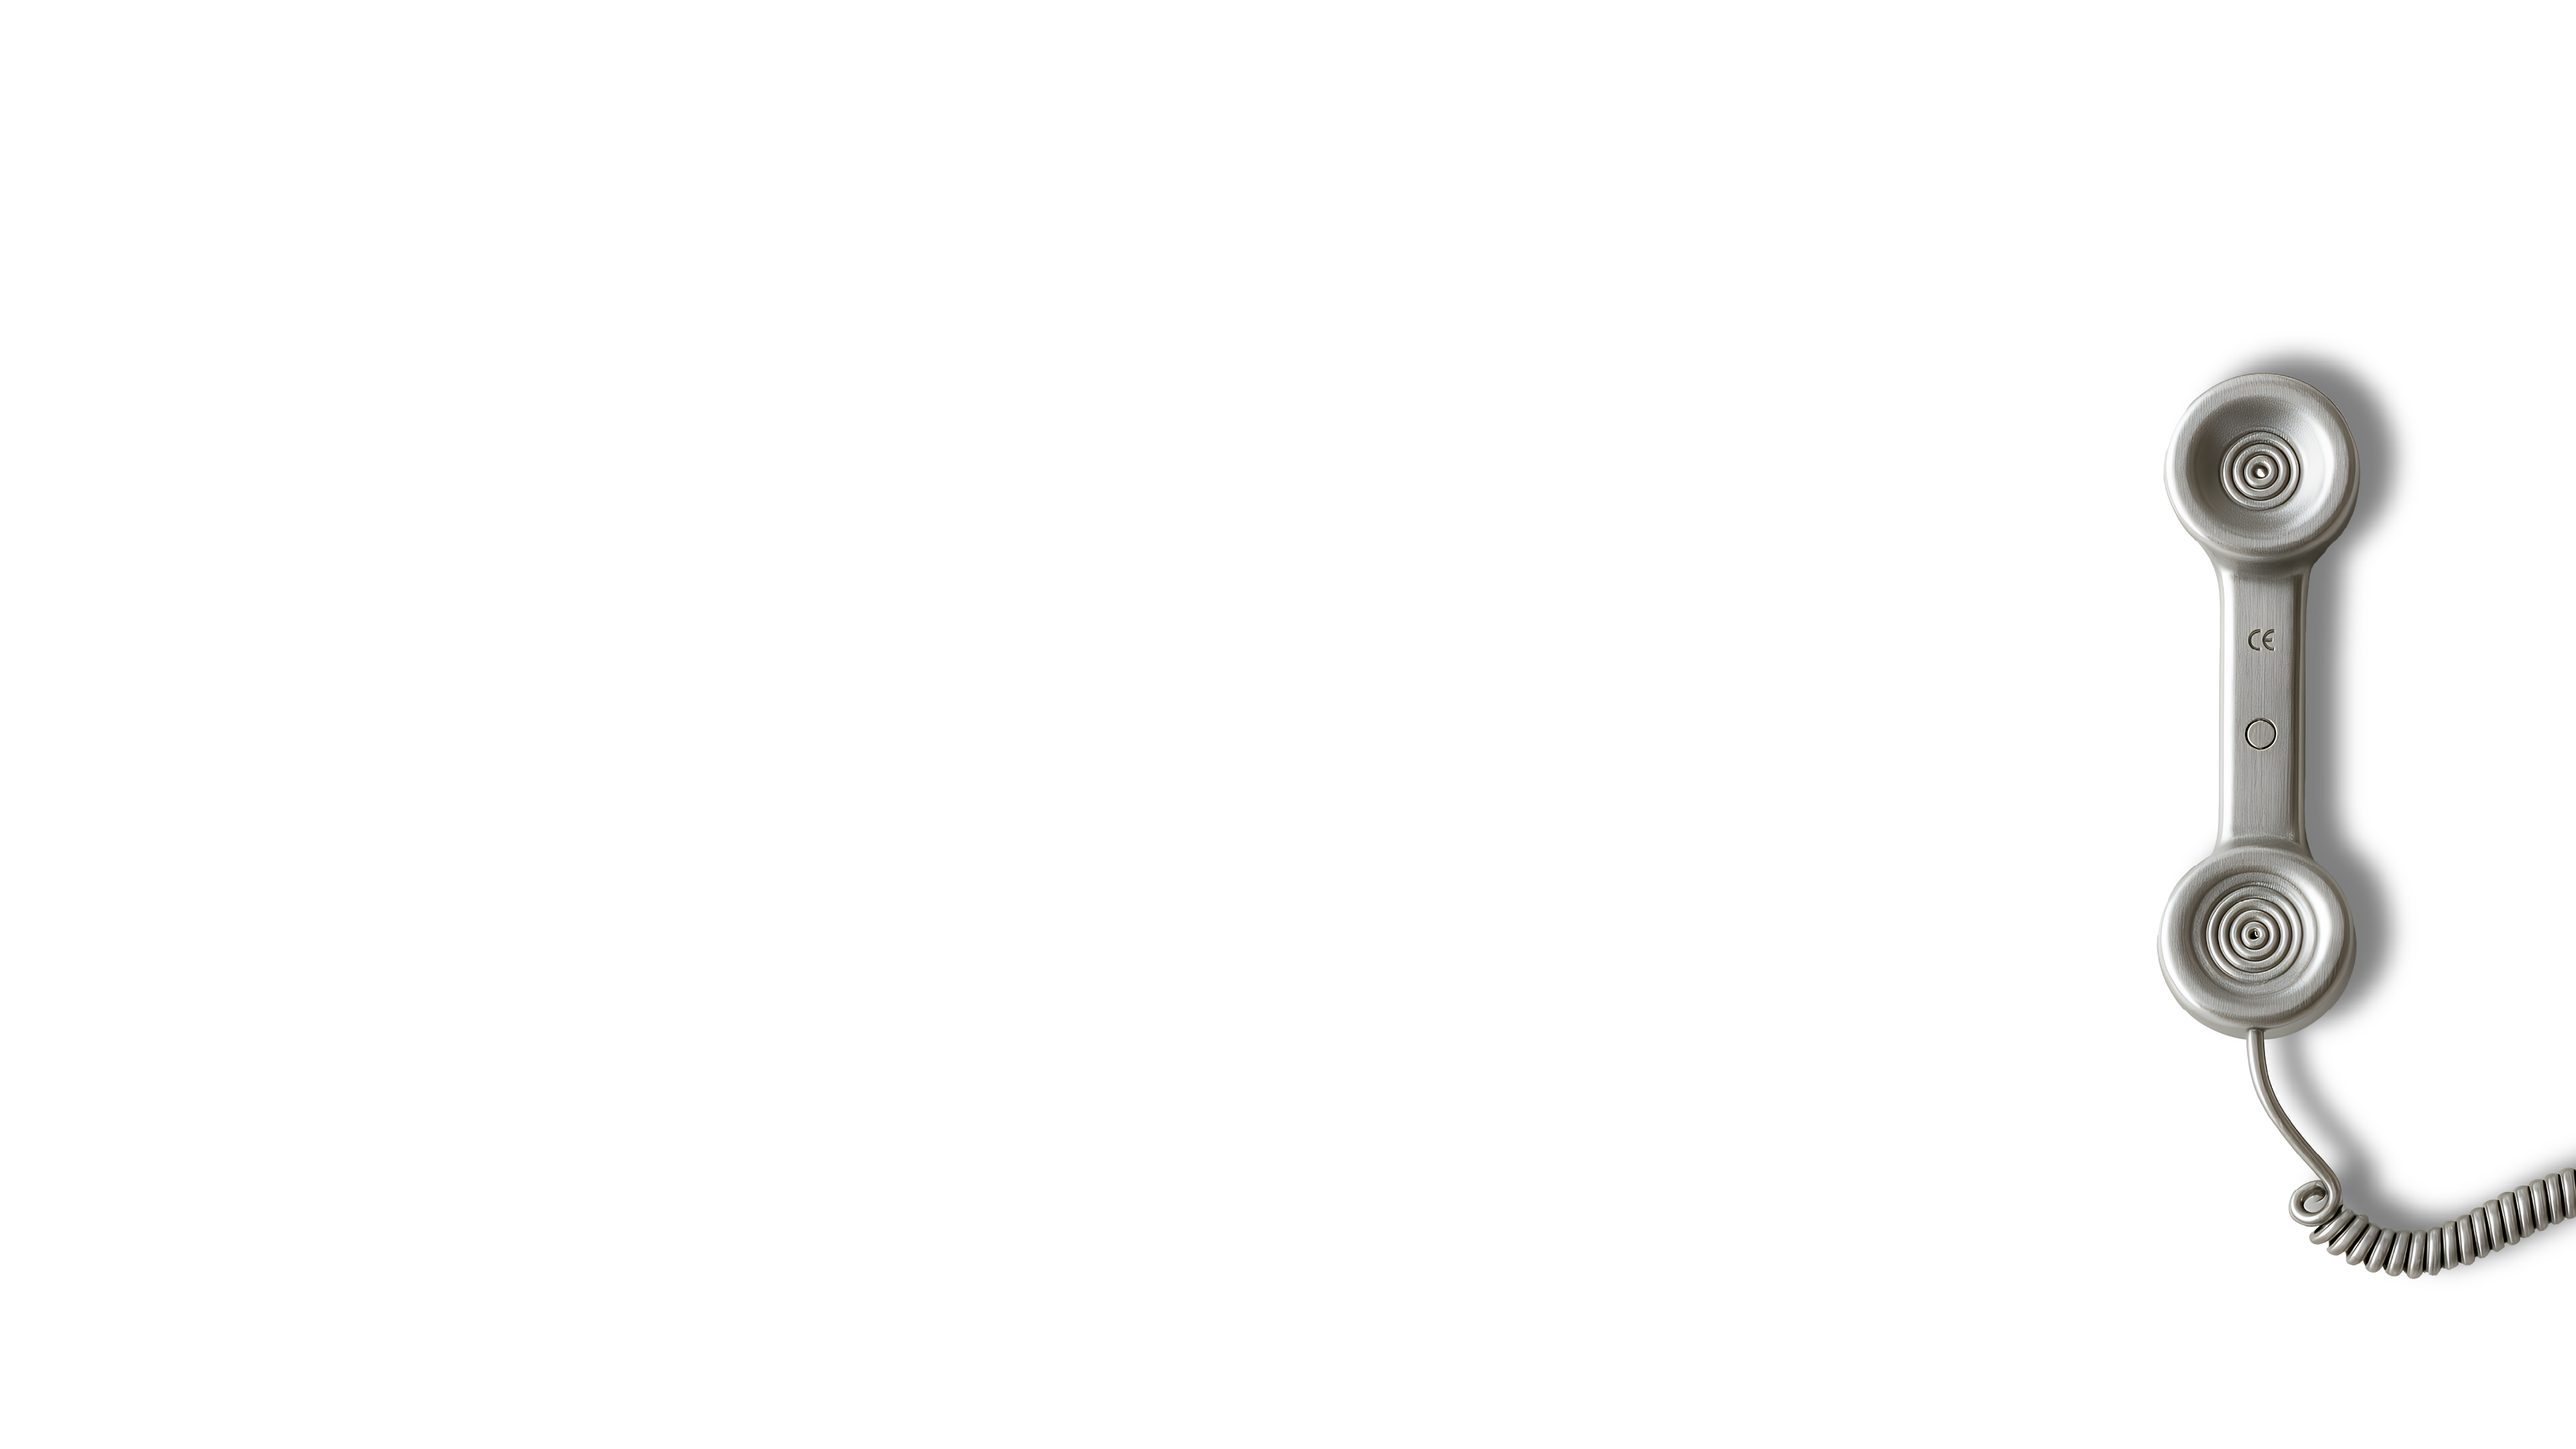
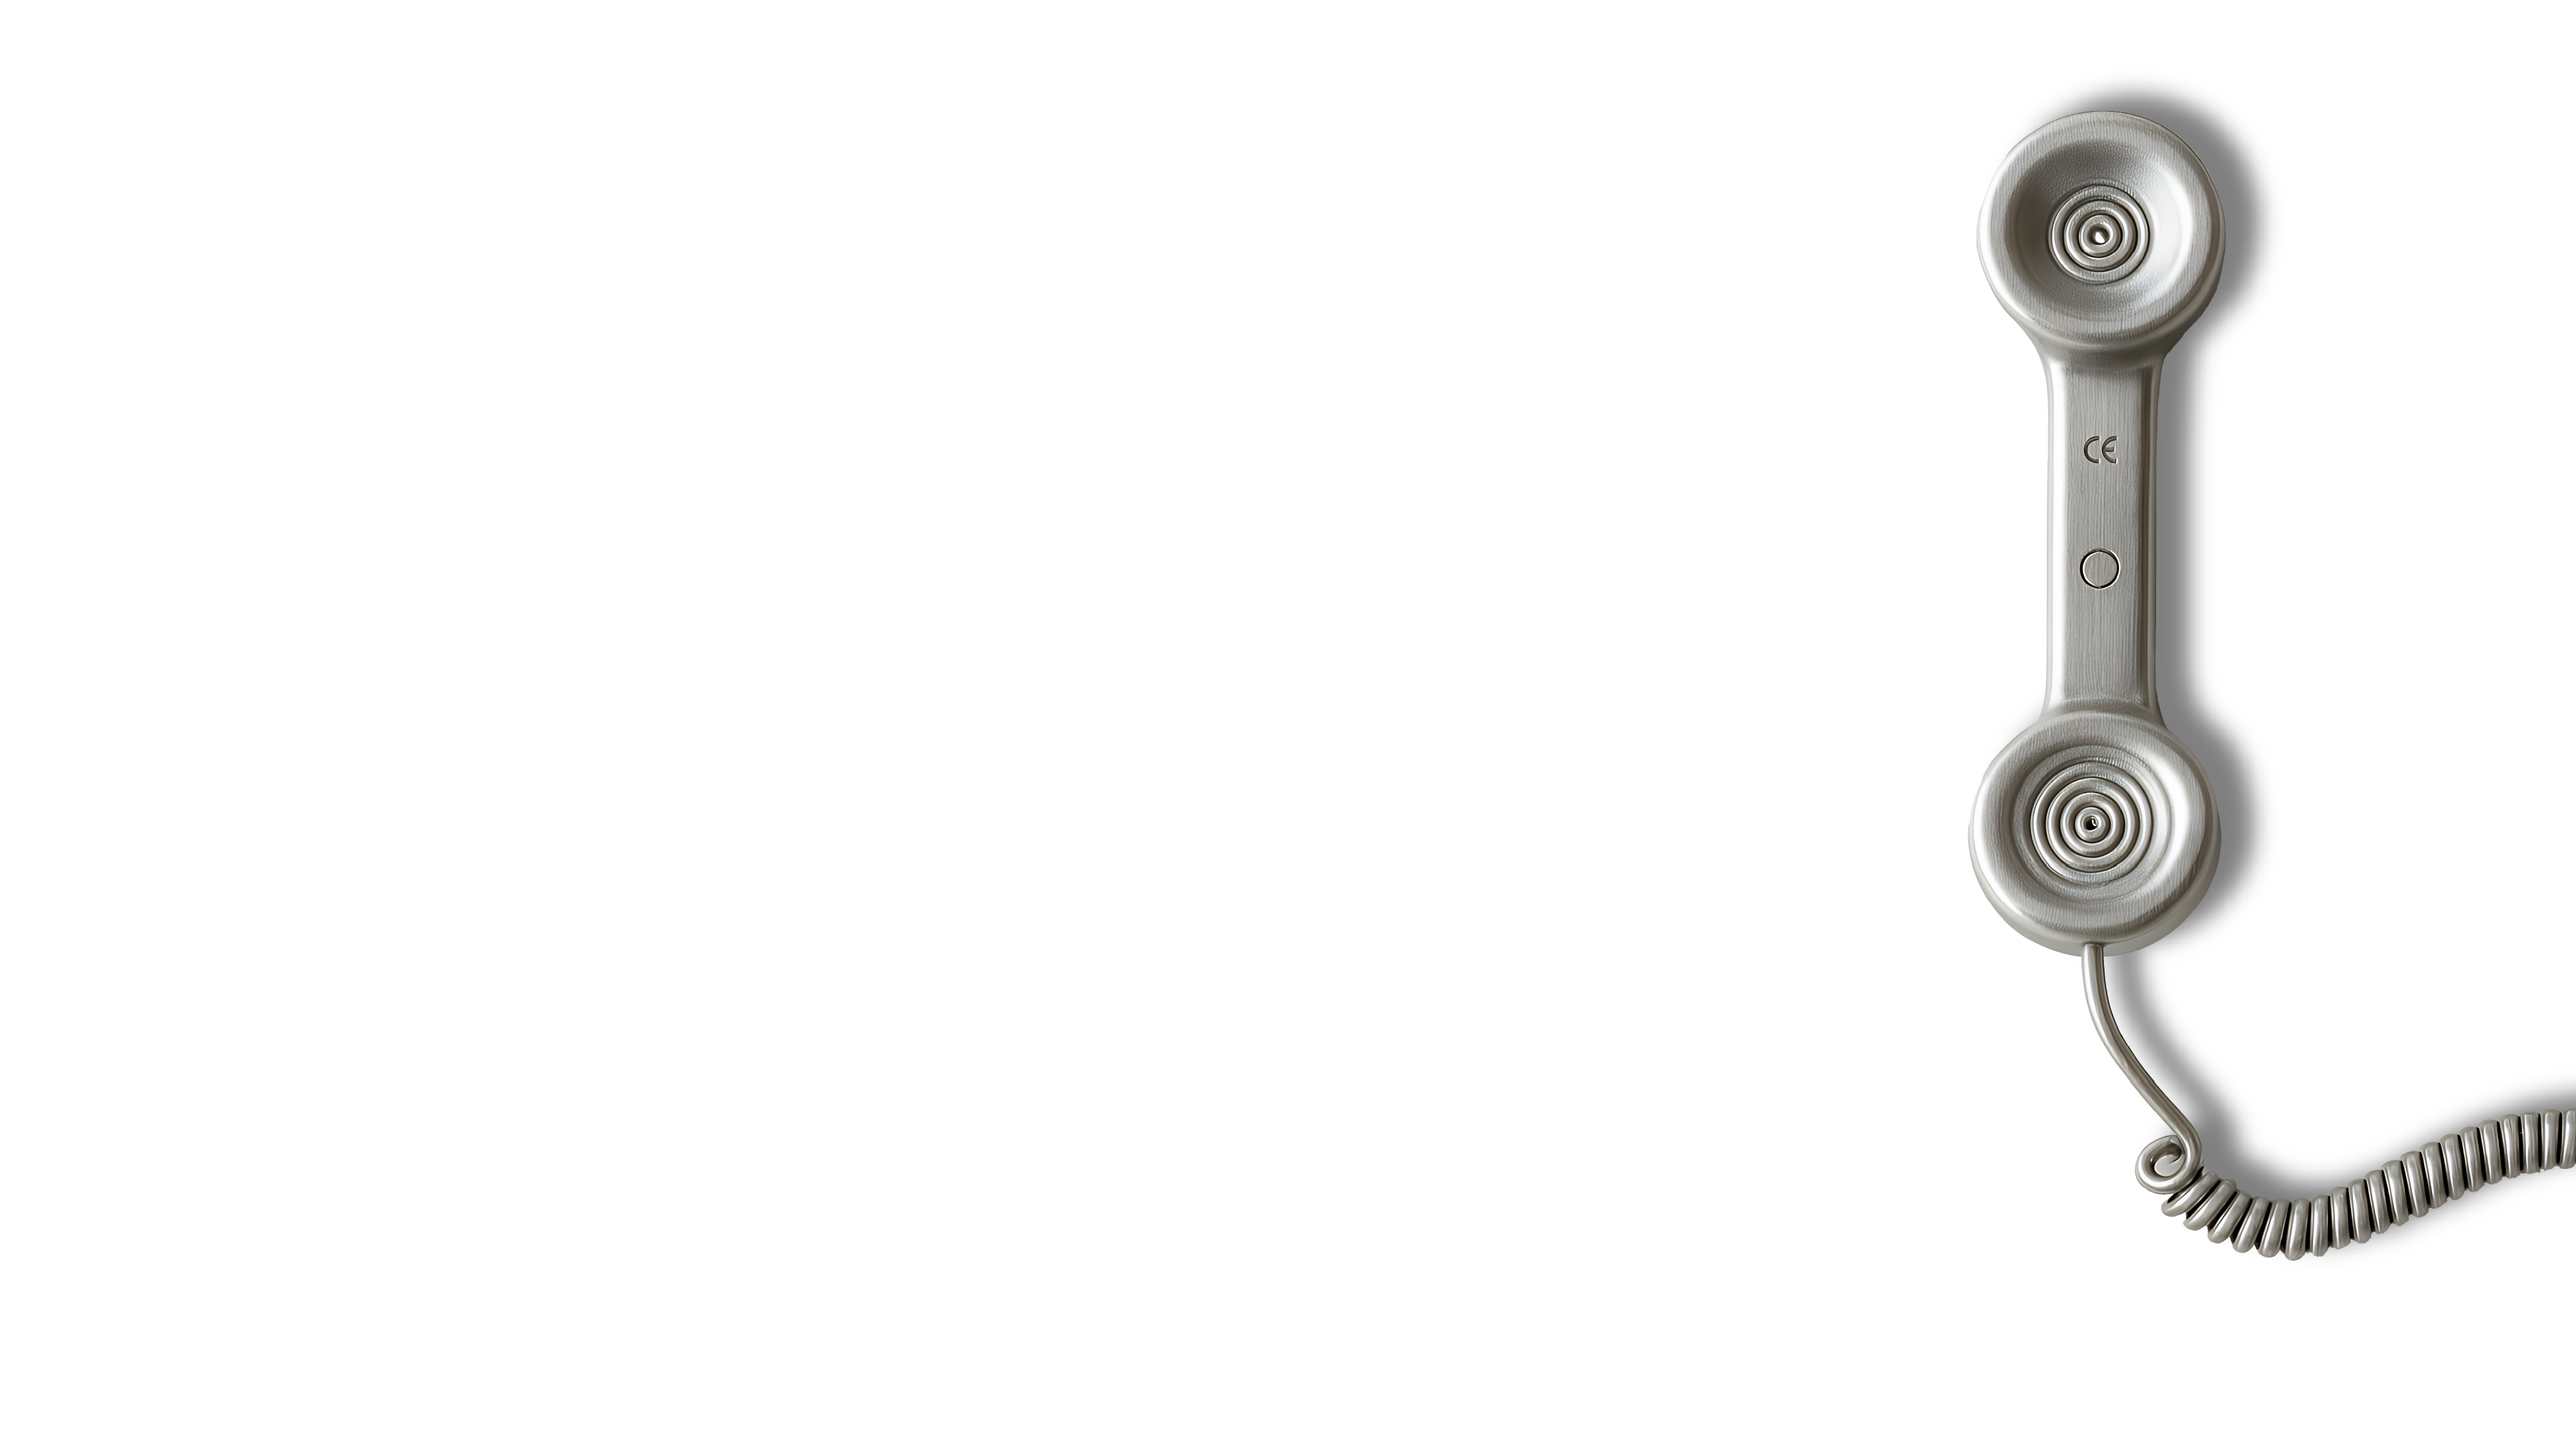
v0.1.28

Changed region(s): [[0.75, 0.0622, 1.0, 0.9022]]

diff --git a/app/components/richtxt/richtxt.scss b/app/components/richtxt/richtxt.scss
@@ -17,7 +17,7 @@
     font-weight: 800;
     text-align: center;
     margin-bottom: 4rem;
-    color: #c99500;
+    color: #c5a86e;
     line-height: 1.4;
   }
 
@@ -49,7 +49,7 @@
     font-family: "Avita", sans-serif;
     font-size: 1.8rem;
     font-weight: 800;
-    color: #c99500;
+    color: #c5a86e;
     margin: 0;
     line-height: 1.2;
   }
@@ -174,7 +174,7 @@
       animation: fadeInUp 0.8s ease-out forwards;
       animation-play-state: paused;
       margin-top: -40px; // Position middle image slightly higher
-    height: 800px;
+      height: 800px;
     }
 
     &:nth-child(3) {

diff --git a/app/components/richvid/richvid.scss b/app/components/richvid/richvid.scss
@@ -1,8 +1,8 @@
 .richvid {
   margin: 0;
   background: #ffffff;
-border-left: 1px solid #646464;
-    border-right: 1px solid #646464;
+  border-left: 1px solid #646464;
+  border-right: 1px solid #646464;
   // Custom cursor styles
   &-custom-cursor {
     position: fixed;
@@ -36,8 +36,8 @@ border-left: 1px solid #646464;
     font-family: "Avita", sans-serif;
     font-size: 4rem;
     font-weight: 700;
-    color: #c99500;
-    padding:2rem 0 1rem 0;
+    color: #c5a86e;
+    padding: 2rem 0 1rem 0;
     line-height: 1.4;
   }
 

diff --git a/app/components/Doublerm/Doublerm.scss b/app/components/Doublerm/Doublerm.scss
@@ -51,7 +51,7 @@
     top: 0rem;
     font-size: 194px;
     // letter-spacing: 1rem;
-    color: #c99500;
+    color: #c5a86e;
     background: rgba(240, 240, 240, 0.4);
     backdrop-filter: blur(10px);
   }
@@ -60,7 +60,7 @@
     bottom: 0;
     font-size: 194px;
     // letter-spacing: 1rem;
-    color: #c99500;
+    color: #c5a86e;
     background: rgba(240, 240, 240, 0.4);
     backdrop-filter: blur(20px);
   }
